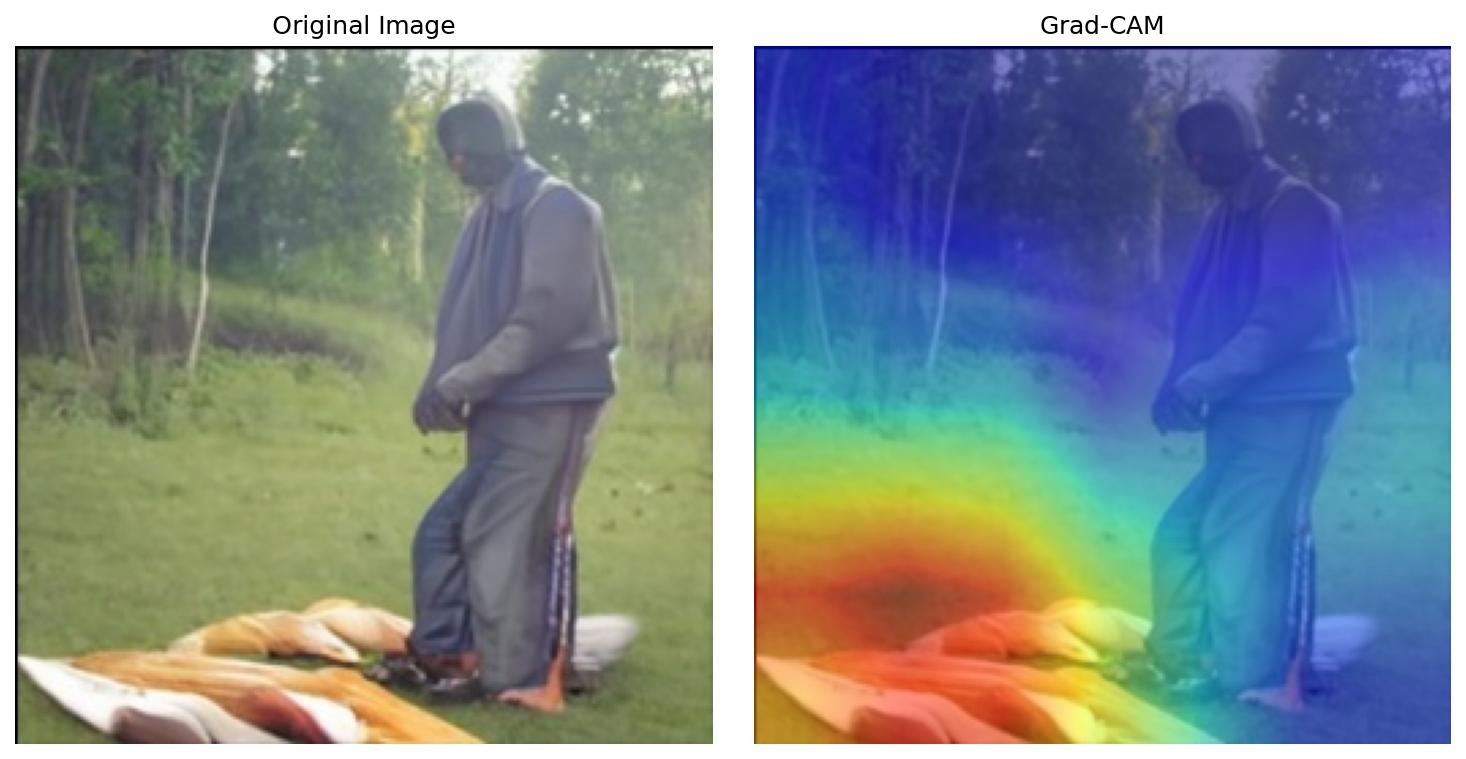
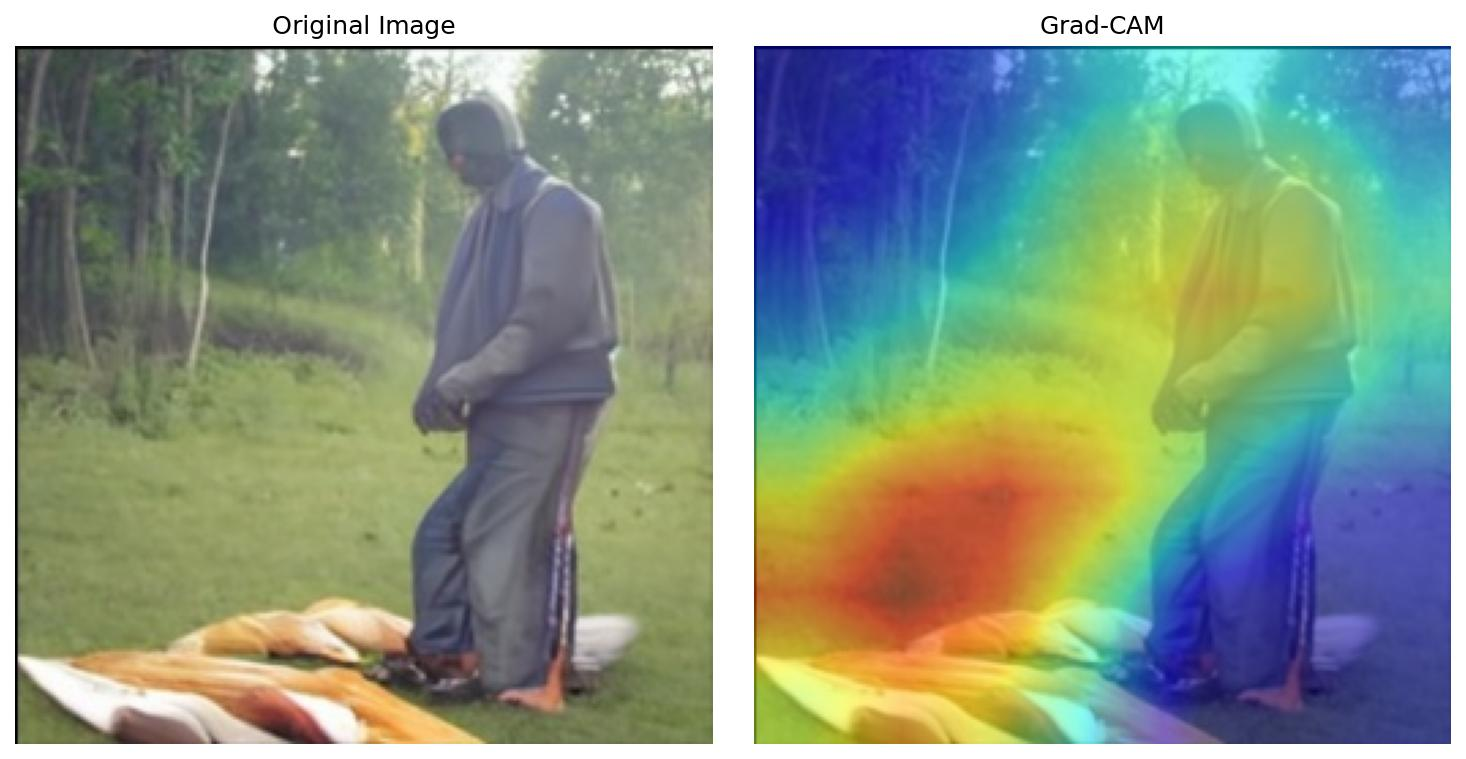
updted the interface code

diff --git a/backend/app/ml/inference.py b/backend/app/ml/inference.py
@@ -7,65 +7,156 @@ from .model import create_model
 from .preprocessing import preprocess_image
 
 
+# ============================================================
+# SignalScope Inference Configuration
+# ============================================================
+
 BASE_DIR = Path(__file__).resolve().parents[2]
 
-MODEL_PATH = BASE_DIR / "models" / "signalscope_model.pth"
+# Production model
+#
+# The expanded model has been copied to this filename:
+#
+# models/signalscope_model.pth
+#
+MODEL_PATH = (
+    BASE_DIR
+    / "models"
+    / "signalscope_model.pth"
+)
 
+
+# ============================================================
+# SignalScope Inference Service
+# ============================================================
 
 class SignalScopeInference:
 
     def __init__(self):
+
         self.device = torch.device(
-            "cuda" if torch.cuda.is_available() else "cpu"
+            "cuda"
+            if torch.cuda.is_available()
+            else "cpu"
         )
 
         self.model = None
 
+
+    # ========================================================
+    # Load Model
+    # ========================================================
+
     def load_model(self):
 
+        # Check whether model exists
         if not MODEL_PATH.exists():
+
             raise FileNotFoundError(
                 f"Trained model not found: {MODEL_PATH}"
             )
 
+
+        print(
+            f"Loading SignalScope model from: {MODEL_PATH}"
+        )
+
+
+        # Create model architecture
         self.model = create_model()
 
+
+        # Load trained weights
         checkpoint = torch.load(
             MODEL_PATH,
             map_location=self.device,
             weights_only=True,
         )
 
+
+        # Load weights into model
         self.model.load_state_dict(checkpoint)
 
+
+        # Move model to CPU/GPU
         self.model.to(self.device)
 
+
+        # Evaluation mode
         self.model.eval()
+
+
+        print(
+            f"SignalScope model loaded successfully "
+            f"on {self.device}"
+        )
+
+
+    # ========================================================
+    # Predict Image
+    # ========================================================
 
     def predict(self, image: Image.Image):
 
+        # Load model if not already loaded
         if self.model is None:
             self.load_model()
 
+
+        # ----------------------------------------------------
+        # Preprocess image
+        # ----------------------------------------------------
+
         input_tensor = preprocess_image(image)
 
-        input_tensor = input_tensor.to(self.device)
+        input_tensor = input_tensor.to(
+            self.device
+        )
+
+
+        # ----------------------------------------------------
+        # Model prediction
+        # ----------------------------------------------------
 
         with torch.no_grad():
 
-            output = self.model(input_tensor)
+            output = self.model(
+                input_tensor
+            )
 
-            # ImageFolder used:
-            # ai = 0
+
+            # ------------------------------------------------
+            # IMPORTANT LABEL MAPPING
+            # ------------------------------------------------
+            #
+            # ImageFolder created:
+            #
+            # ai   = 0
             # real = 1
             #
-            # Therefore sigmoid(output)
+            # Therefore:
+            #
+            # sigmoid(output)
+            #
             # represents REAL probability.
+            #
+            # AI probability is:
+            #
+            # 1 - real_probability
+            # ------------------------------------------------
 
-            real_probability = torch.sigmoid(output).item()
+            real_probability = (
+                torch.sigmoid(output).item()
+            )
 
-            # AI probability is the opposite.
-            ai_probability = 1.0 - real_probability
+            ai_probability = (
+                1.0 - real_probability
+            )
+
+
+        # ----------------------------------------------------
+        # Convert to percentages
+        # ----------------------------------------------------
 
         ai_percent = round(
             ai_probability * 100,
@@ -77,24 +168,64 @@ class SignalScopeInference:
             2
         )
 
+
+        # ----------------------------------------------------
+        # Determine verdict
+        # ----------------------------------------------------
+
         if ai_probability >= 0.5:
+
             verdict = "Likely AI-generated"
+
         else:
+
             verdict = "Likely real"
 
-        confidence = max(
-            ai_probability,
-            real_probability
-        ) * 100
+
+        # ----------------------------------------------------
+        # Calculate confidence
+        # ----------------------------------------------------
+
+        confidence = (
+            max(
+                ai_probability,
+                real_probability
+            )
+            * 100
+        )
+
+
+        # ----------------------------------------------------
+        # Return result
+        # ----------------------------------------------------
 
         return {
-            "ai_probability": ai_probability,
-            "real_probability": real_probability,
-            "ai_percent": ai_percent,
-            "real_percent": real_percent,
-            "confidence": round(confidence, 2),
-            "verdict": verdict,
+
+            "ai_probability":
+                ai_probability,
+
+            "real_probability":
+                real_probability,
+
+            "ai_percent":
+                ai_percent,
+
+            "real_percent":
+                real_percent,
+
+            "confidence":
+                round(
+                    confidence,
+                    2
+                ),
+
+            "verdict":
+                verdict,
         }
 
+
+# ============================================================
+# Global Inference Service
+# ============================================================
 
 inference_service = SignalScopeInference()
